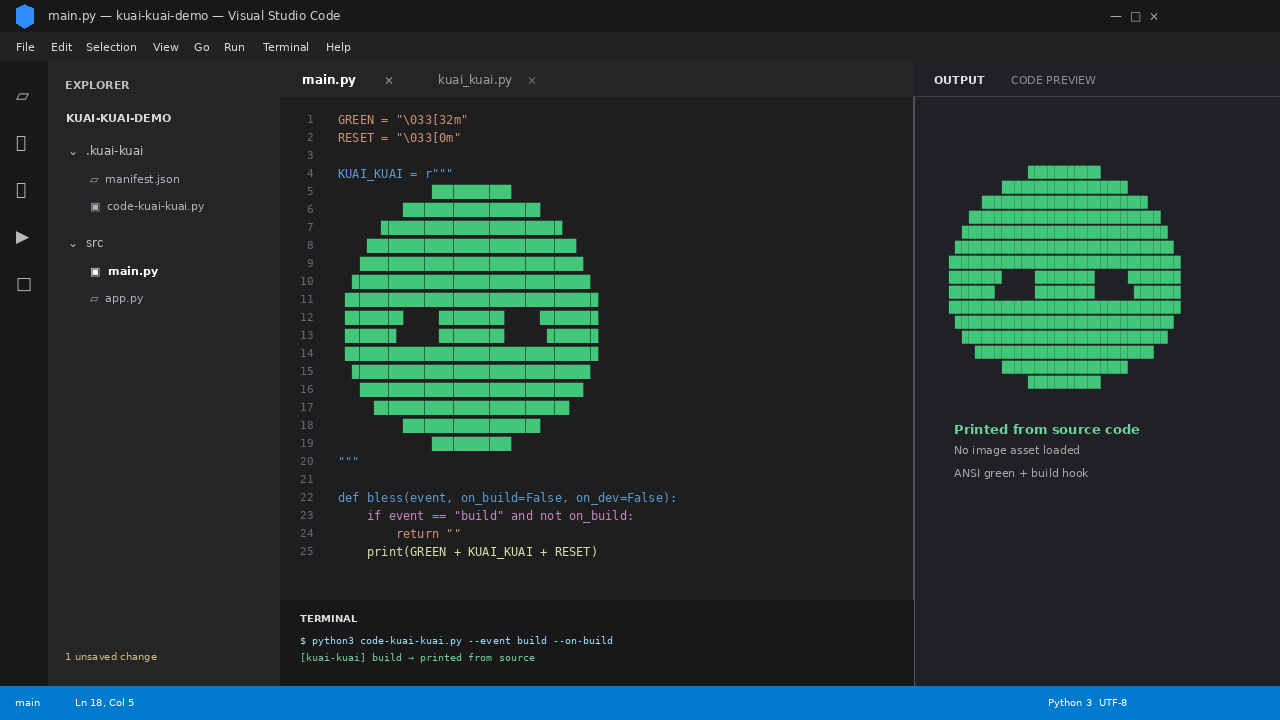
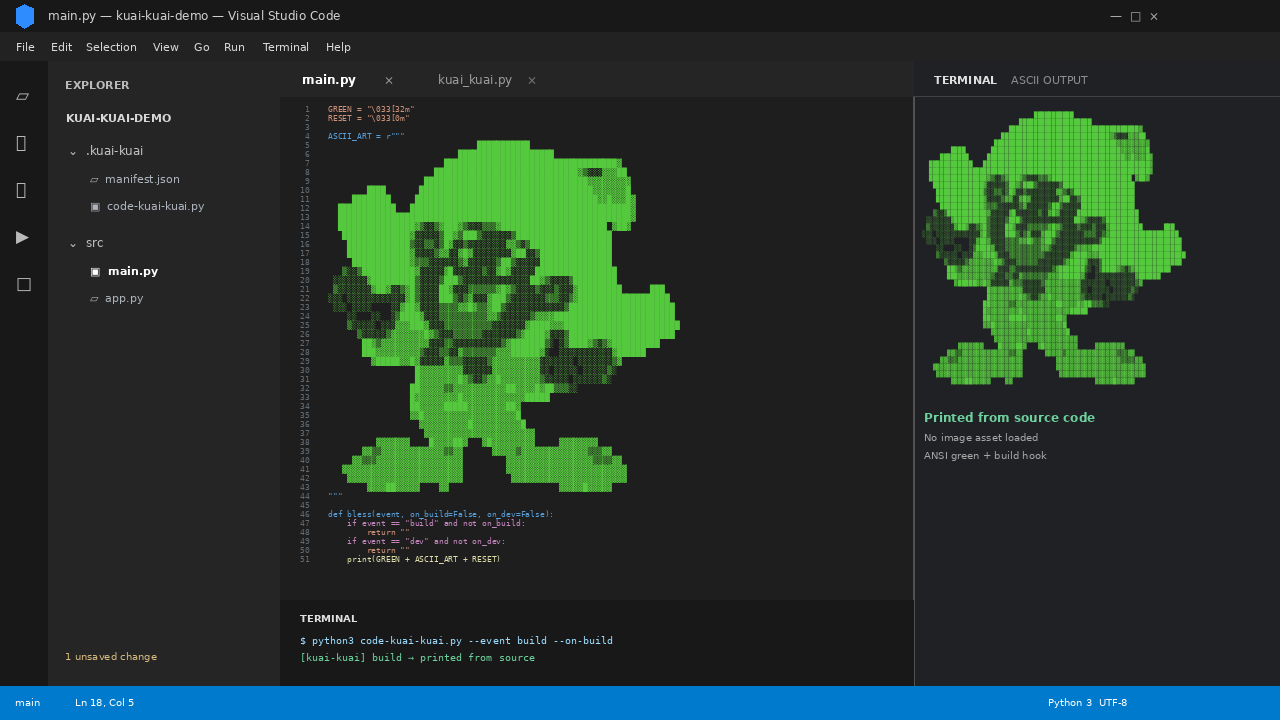
依照範例改用完整明暗 ASCII 乖乖

diff --git a/scripts/build-demo-gifs.py b/scripts/build-demo-gifs.py
@@ -215,31 +215,55 @@ def illustrator_frame(progress: float, final: bool = False) -> Image.Image:
     return im
 
 
-# The code demo follows the event-triggered ASCII-art approach in the
-# referenced Vite plug-in. It never reads PACKAGE.
+# The code demo follows the event-triggered, source-embedded ASCII-art approach
+# in the referenced Vite plug-in. It never reads PACKAGE.
 ASCII_ART = (
-    "             ███████████",
-    "         ███████████████████",
-    "      █████████████████████████",
-    "    █████████████████████████████",
-    "   ███████████████████████████████",
-    "  █████████████████████████████████",
-    " ███████████████████████████████████",
-    " ████████     █████████     ████████",
-    " ███████      █████████      ███████",
-    " ███████████████████████████████████",
-    "  █████████████████████████████████",
-    "   ███████████████████████████████",
-    "     ███████████████████████████",
-    "         ███████████████████",
-    "             ███████████",
+    "                               ███████████",
+    "                           ████████████████████",
+    "                        ████████████████████████████████████▓",
+    "                      ██████████████████████████████▓▒░░░▓▓▓██",
+    "                    ██████████████████████████████████▓▓▓▓▓▓▓▓▓",
+    "        ████       ████████████████████████████████████▓▓▓▓▓▓▓█",
+    "     ████████     ██████████████████████████████████████▓▓█▓▓▓█▓",
+    "  ████████████   ██████████████████████████████████████████████▓",
+    "  █████████████████████████████████████████████████████████████▓",
+    "  ████████████████▓▒░░▒▓███▓▒░░░▒▒▒▓██████████████████████ ▓██▓",
+    "   ██████████████▓░░░░░▒██▓▒███▒░░░░░░▒████████████████████",
+    "    █████████████▒░░▒▒░▒█▓░░▒░░░░░░░░▓▓▒░▒█████████████████",
+    "    █████████████▓░░░░▒▓▓░░▓█▓░░░░░░░░▓██░░▒███████████████",
+    "     ████████████▓▒▒▒░░░░░░▒▓░░░░░░▒██▒░░░░░███████████████",
+    "   ▒░░▒███████████▓░░░░░▓█░░░░░░▒░░▓█▓░░░░░█████████████████",
+    " ░░░░░░░▓█████████▒░░░░▒███▒░░░░░░░░░░░░░░██▓▒░░░░▒█████████",
+    " ▒░░░░░░░▓██▓░░▒▓█▒░░░░██▓░░░▒▒▒▒▒▒▓█▓▒░░░░▒░░░▒░░░▓█████████      ███",
+    "░░░ ░░░░░░░░░░░░▓█▒░░░░███▒░▒▓░░░▓███▒░░░░░░░▒▒▒░░▒▓███████████████████",
+    " ░░░ ░░░░    ░░▓██▓░░░░▒▒▒▒▓▓█▓▒▒▓██▒░░░░░░░░░░░░▒██████████████████████",
+    "    ░░   ░░  ░▒████▓░░░▒▒▒▒▒▒▒▒▒▒▓▓▒░░░░░░▒▓▓▓▓█████████████████████████",
+    "    ▒░░░░░ ░░░▓▓▓███▓░░░▒▒▒▒▒▒▒▒▒▒░░░░░░░▓████▓▓▓████████████████████████",
+    "      ▒░░░░░▒▓▓▓▓▓▓▓█▓▒░░░▒▒▒▒▒▒░░░░░░░▒▓████▓░░░▒██████████████████████",
+    "       ██▓▒▓▓▓▓▓▓▓▓▓▓░░░▒▒░░░░░░░░░░▒▓███████▒░ ░▒████▓▒░▒▓██████████",
+    "       ███▓▓▓▓▓▓▓▓▓▒░░░▒▒░░▓▒▒▒▒▒▒▒▓▓▓██████▓░  ░░░░░░░░░░░▓██████",
+    "         ▓█████▓▓█▓░░░░░▓▒▒▒░░░░░▒▓▓▓▓▓▓▓▓▓▓░░░░░░░ ░░░░░░░▒▓",
+    "                  █▓▓▓▓▓▓▓▓▓░░░░░░▓▓▓▓▓▓▓▓▓▓░░ ░░░░░ ░░░░░▒░",
+    "                  █▓▓▓▓▓▓▓▓█▓▒░░▒▓▓█▓▓▓▓▓▓▓▓▒░░░░░ ░░░░░░▒░",
+    "                 ██▓▓▓▓▓▒▒▓▓▓▓▓▓▓▓▓▓▓██▓▓▓▓█▓██▒▒▒░░",
+    "                 █▓▓▓▓▓▓▓▓▓█▓▓▓▓▓▓▓▓▓▓▓▓▓█████",
+    "                 ██▓▓▓▓▓█████▓▓▓▓▓▓▓▓██▓",
+    "                 ▓▓█▓▓▓▓▓▓▓▓▓▓▓▓▓▓▓▓▓▓▓█",
+    "                   ▓▓▓▓▓▓▓▓▓▓█▓▓▓▓▓▓▓▓▓▓█",
+    "                    ▓▓▓▓▓▓▓▓▓▓▓▓▓▓▓▓▓▓▓▓▓▓▓",
+    "          ▓▓▓▓▓▓▓    █▓▓▓▓██▓   ▓█▓▓▓▓▓▓▓▓▓     ▓▓▓▓▓▓▓▓",
+    "       ▓▓▒▒▓▓▓▓▓▓▓▓▓▓▓▓▓▒▒▓▓      ▓▓▓▓▓▒▓▓▓▓▓▓▓▓▓▓▓▓▓▓▒▒▒▓▓",
+    "     ▓▓▒▒▒▓▓▓▓▓▓▓▓▓▓▓▓▓▓▓▓▓▓         ▓▓▓▓▓▓▓▓▓▓▓▓▓▓▓▓▓▓▒▒▒▒▓▓",
+    "   ▓▓▓▓▓▓▓▓▓▓▓▓▓▓▓▓▓▓▓▓▓▓▓▓▓         ▓▓▓▓▓▓▓▓▓▓▓▓▓▓▓▓▓▓▓▓▓▓▓▓▓",
+    "    ▓▓▓▓▓▓▓▓▓▓▓▓▓▓▓▓▓▓▓▓▓▓▓▓          ▓▓▓▓▓▓▓▓▓▓▓▓▓▓▓▓▓▓▓▓▓▓▓▓",
+    "        ▓▓▓▓██▓▓▓▓▓    ▓▓                       ▓▓▓▓▓█▓▓▓▓▓",
 )
 
 
 def draw_ascii_preview(draw: ImageDraw.ImageDraw, x: int, y: int, visible: int | None = None) -> None:
     lines = ASCII_ART if visible is None else ASCII_ART[:visible]
     for row, line in enumerate(lines):
-        text(draw, (x, y + row * 15), line, 11, "#42c77a", bold=True, mono=True)
+        text(draw, (x, y + row * 7), line, 6, "#55c93d", bold=True, mono=True)
 
 
 def code_shell() -> tuple[Image.Image, ImageDraw.ImageDraw]:
@@ -278,8 +302,8 @@ def code_shell() -> tuple[Image.Image, ImageDraw.ImageDraw]:
     text(draw, (384, 72), "×", 12, "#999999")
     text(draw, (438, 72), "kuai_kuai.py", 12, "#9d9d9d")
     text(draw, (527, 72), "×", 12, "#777777")
-    text(draw, (934, 73), "OUTPUT", 11, "#e0e0e0", bold=True)
-    text(draw, (1011, 73), "CODE PREVIEW", 11, "#8d8d8d")
+    text(draw, (934, 73), "TERMINAL", 11, "#e0e0e0", bold=True)
+    text(draw, (1011, 73), "ASCII OUTPUT", 11, "#8d8d8d")
     draw.line((913, 96, W, 96), fill="#424242")
     draw.line((913, 97, 913, 686), fill="#515151", width=2)
     return im, draw
@@ -289,63 +313,51 @@ CODE_LINES = [
     ('GREEN = "\\033[32m"', "#ce9178"),
     ('RESET = "\\033[0m"', "#ce9178"),
     ("", "#d4d4d4"),
-    ('KUAI_KUAI = r"""', "#569cd6"),
-    ("             ███████████", "#42c77a"),
-    ("         ███████████████████", "#42c77a"),
-    ("      █████████████████████████", "#42c77a"),
-    ("    █████████████████████████████", "#42c77a"),
-    ("   ███████████████████████████████", "#42c77a"),
-    ("  █████████████████████████████████", "#42c77a"),
-    (" ███████████████████████████████████", "#42c77a"),
-    (" ████████     █████████     ████████", "#42c77a"),
-    (" ███████      █████████      ███████", "#42c77a"),
-    (" ███████████████████████████████████", "#42c77a"),
-    ("  █████████████████████████████████", "#42c77a"),
-    ("   ███████████████████████████████", "#42c77a"),
-    ("     ███████████████████████████", "#42c77a"),
-    ("         ███████████████████", "#42c77a"),
-    ("             ███████████", "#42c77a"),
+    ('ASCII_ART = r"""', "#569cd6"),
+] + [(line, "#55c93d") for line in ASCII_ART] + [
     ('"""', "#569cd6"),
     ("", "#d4d4d4"),
     ("def bless(event, on_build=False, on_dev=False):", "#569cd6"),
     ('    if event == "build" and not on_build:', "#c586c0"),
     ('        return ""', "#ce9178"),
-    ("    print(GREEN + KUAI_KUAI + RESET)", "#dcdcaa"),
+    ('    if event == "dev" and not on_dev:', "#c586c0"),
+    ('        return ""', "#ce9178"),
+    ("    print(GREEN + ASCII_ART + RESET)", "#dcdcaa"),
 ]
 
 
 def code_frame(progress: float, final: bool = False) -> Image.Image:
     im, draw = code_shell()
-    editor_x, editor_y = 300, 112
-    line_height = 18
+    editor_x, editor_y = 300, 104
+    line_height = 9
     visible = len(CODE_LINES) if final else max(3, min(len(CODE_LINES), int(3 + progress * (len(CODE_LINES) - 3))))
     for index, (line, colour) in enumerate(CODE_LINES[:visible]):
         y = editor_y + index * line_height
-        text(draw, (editor_x, y), f"{index + 1:>2}", 11, "#606a73", mono=True)
-        text(draw, (editor_x + 38, y), line, 12, colour, mono=True)
+        text(draw, (editor_x, y), f"{index + 1:>2}", 8, "#606a73", mono=True)
+        text(draw, (editor_x + 28, y), line, 8, colour, mono=True)
 
     # A blinking caret communicates typing; it replaces the old fake drag arrow.
     if not final:
         last_line = CODE_LINES[visible - 1][0]
-        caret_x = editor_x + 38 + len(last_line) * 7
+        caret_x = editor_x + 28 + len(last_line) * 4.8
         draw.rectangle((caret_x, editor_y + (visible - 1) * line_height, caret_x + 2,
-                        editor_y + (visible - 1) * line_height + 15), fill="#aeafad")
+                        editor_y + (visible - 1) * line_height + 10), fill="#aeafad")
 
     # The preview appears row by row only after the lifecycle hook exists.
-    preview_x, preview_y = 942, 165
+    preview_x, preview_y = 922, 111
     if final:
         draw_ascii_preview(draw, preview_x, preview_y)
-        text(draw, (954, 421), "Printed from source code", 13, "#6ed19d", bold=True)
-        text(draw, (954, 443), "No image asset loaded", 11, "#a6a6a6")
-        text(draw, (954, 466), "ANSI green + build hook", 11, "#a6a6a6")
+        text(draw, (924, 410), "Printed from source code", 12, "#6ed19d", bold=True)
+        text(draw, (924, 431), "No image asset loaded", 10, "#a6a6a6")
+        text(draw, (924, 449), "ANSI green + build hook", 10, "#a6a6a6")
     elif visible > 4:
         rows = min(len(ASCII_ART), visible - 4)
         draw_ascii_preview(draw, preview_x, preview_y, visible=rows)
-        text(draw, (954, 421), "Executing build hook…", 12, "#dcdcaa")
+        text(draw, (924, 410), "Executing build hook…", 11, "#dcdcaa")
     else:
-        text(draw, (954, 207), "Waiting for event…", 13, "#777777")
-        text(draw, (954, 235), "The talisman is stored", 11, "#777777")
-        text(draw, (954, 253), "inside the source code.", 11, "#777777")
+        text(draw, (924, 207), "Waiting for event…", 12, "#777777")
+        text(draw, (924, 235), "The talisman is stored", 10, "#777777")
+        text(draw, (924, 252), "inside the source code.", 10, "#777777")
 
     # Integrated terminal and status bar.
     draw.rectangle((280, 600, 913, 686), fill="#181818")

diff --git a/skills/kuai-kuai-bye-bye/scripts/code-kuai-kuai.py b/skills/kuai-kuai-bye-bye/scripts/code-kuai-kuai.py
@@ -14,24 +14,50 @@ import argparse
 GREEN = "\033[32m"
 RESET = "\033[0m"
 
-# Inspired by the event-triggered ASCII-art approach in:
-# https://github.com/unickhow/vite-plugin-kuaikuai
+# The drawing is kept in source, following the event-triggered approach in
+# https://github.com/unickhow/vite-plugin-kuaikuai.  The shaded characters are
+# intentional: they preserve the package, face, arms and feet instead of
+# reducing Kuai Kuai to a generic green blob.
 ASCII_ART = r"""
-             ███████████
-         ███████████████████
-      █████████████████████████
-    █████████████████████████████
-   ███████████████████████████████
-  █████████████████████████████████
- ███████████████████████████████████
- ████████     █████████     ████████
- ███████      █████████      ███████
- ███████████████████████████████████
-  █████████████████████████████████
-   ███████████████████████████████
-     ███████████████████████████
-         ███████████████████
-             ███████████
+                               ███████████
+                           ████████████████████
+                        ████████████████████████████████████▓
+                      ██████████████████████████████▓▒░░░▓▓▓██
+                    ██████████████████████████████████▓▓▓▓▓▓▓▓▓
+        ████       ████████████████████████████████████▓▓▓▓▓▓▓█
+     ████████     ██████████████████████████████████████▓▓█▓▓▓█▓
+  ████████████   ██████████████████████████████████████████████▓
+  █████████████████████████████████████████████████████████████▓
+  ████████████████▓▒░░▒▓███▓▒░░░▒▒▒▓██████████████████████ ▓██▓
+   ██████████████▓░░░░░▒██▓▒███▒░░░░░░▒████████████████████
+    █████████████▒░░▒▒░▒█▓░░▒░░░░░░░░▓▓▒░▒█████████████████
+    █████████████▓░░░░▒▓▓░░▓█▓░░░░░░░░▓██░░▒███████████████
+     ████████████▓▒▒▒░░░░░░▒▓░░░░░░▒██▒░░░░░███████████████
+   ▒░░▒███████████▓░░░░░▓█░░░░░░▒░░▓█▓░░░░░█████████████████
+ ░░░░░░░▓█████████▒░░░░▒███▒░░░░░░░░░░░░░░██▓▒░░░░▒█████████
+ ▒░░░░░░░▓██▓░░▒▓█▒░░░░██▓░░░▒▒▒▒▒▒▓█▓▒░░░░▒░░░▒░░░▓█████████      ███
+░░░ ░░░░░░░░░░░░▓█▒░░░░███▒░▒▓░░░▓███▒░░░░░░░▒▒▒░░▒▓███████████████████
+ ░░░ ░░░░    ░░▓██▓░░░░▒▒▒▒▓▓█▓▒▒▓██▒░░░░░░░░░░░░▒██████████████████████
+    ░░   ░░  ░▒████▓░░░▒▒▒▒▒▒▒▒▒▒▓▓▒░░░░░░▒▓▓▓▓█████████████████████████
+    ▒░░░░░ ░░░▓▓▓███▓░░░▒▒▒▒▒▒▒▒▒▒░░░░░░░▓████▓▓▓████████████████████████
+      ▒░░░░░▒▓▓▓▓▓▓▓█▓▒░░░▒▒▒▒▒▒░░░░░░░▒▓████▓░░░▒██████████████████████
+       ██▓▒▓▓▓▓▓▓▓▓▓▓░░░▒▒░░░░░░░░░░▒▓███████▒░ ░▒████▓▒░▒▓██████████
+       ███▓▓▓▓▓▓▓▓▓▒░░░▒▒░░▓▒▒▒▒▒▒▒▓▓▓██████▓░  ░░░░░░░░░░░▓██████
+         ▓█████▓▓█▓░░░░░▓▒▒▒░░░░░▒▓▓▓▓▓▓▓▓▓▓░░░░░░░ ░░░░░░░▒▓
+                  █▓▓▓▓▓▓▓▓▓░░░░░░▓▓▓▓▓▓▓▓▓▓░░ ░░░░░ ░░░░░▒░
+                  █▓▓▓▓▓▓▓▓█▓▒░░▒▓▓█▓▓▓▓▓▓▓▓▒░░░░░ ░░░░░░▒░
+                 ██▓▓▓▓▓▒▒▓▓▓▓▓▓▓▓▓▓▓██▓▓▓▓█▓██▒▒▒░░
+                 █▓▓▓▓▓▓▓▓▓█▓▓▓▓▓▓▓▓▓▓▓▓▓█████
+                 ██▓▓▓▓▓█████▓▓▓▓▓▓▓▓██▓
+                 ▓▓█▓▓▓▓▓▓▓▓▓▓▓▓▓▓▓▓▓▓▓█
+                   ▓▓▓▓▓▓▓▓▓▓█▓▓▓▓▓▓▓▓▓▓█
+                    ▓▓▓▓▓▓▓▓▓▓▓▓▓▓▓▓▓▓▓▓▓▓▓
+          ▓▓▓▓▓▓▓    █▓▓▓▓██▓   ▓█▓▓▓▓▓▓▓▓▓     ▓▓▓▓▓▓▓▓
+       ▓▓▒▒▓▓▓▓▓▓▓▓▓▓▓▓▓▒▒▓▓      ▓▓▓▓▓▒▓▓▓▓▓▓▓▓▓▓▓▓▓▓▒▒▒▓▓
+     ▓▓▒▒▒▓▓▓▓▓▓▓▓▓▓▓▓▓▓▓▓▓▓         ▓▓▓▓▓▓▓▓▓▓▓▓▓▓▓▓▓▓▒▒▒▒▓▓
+   ▓▓▓▓▓▓▓▓▓▓▓▓▓▓▓▓▓▓▓▓▓▓▓▓▓         ▓▓▓▓▓▓▓▓▓▓▓▓▓▓▓▓▓▓▓▓▓▓▓▓▓
+    ▓▓▓▓▓▓▓▓▓▓▓▓▓▓▓▓▓▓▓▓▓▓▓▓          ▓▓▓▓▓▓▓▓▓▓▓▓▓▓▓▓▓▓▓▓▓▓▓▓
+        ▓▓▓▓██▓▓▓▓▓    ▓▓                       ▓▓▓▓▓█▓▓▓▓▓
 """.strip("\n")
 
 

diff --git a/tests/test_ritual.py b/tests/test_ritual.py
@@ -150,6 +150,9 @@ class RitualTest(unittest.TestCase):
         output = code_kuai_kuai.bless("build", on_build=True, color=False)
         self.assertIn("[kuai-kuai] build", output)
         self.assertIn("████", output)
+        self.assertIn("▓▒░", output)
+        self.assertGreaterEqual(len(code_kuai_kuai.ASCII_ART.splitlines()), 35)
+        self.assertGreater(max(map(len, code_kuai_kuai.ASCII_ART.splitlines())), 70)
         self.assertNotIn("\\033", output)
         self.assertIn("ASCII_ART", code_kuai_kuai.__dict__)
 

diff --git a/README.md b/README.md
@@ -104,21 +104,22 @@ python3 skills/kuai-kuai-bye-bye/scripts/kuai.py uninstall --project /path/to/pr
 
 ## 工程師：直接用程式碼輸出乖乖
 
-首頁第二張 GIF 參考 [vite-plugin-kuaikuai](https://github.com/unickhow/vite-plugin-kuaikuai) 的做法：不是把 PNG 塞進程式碼，也不是先產生一個圖片檔，而是把乖乖圖形寫成多行字元常數，在 `build` 或 `dev` 事件發生時用 ANSI 綠色輸出。這樣最簡單，沒有圖片資產，也不需要繪圖套件。
+首頁第二張 GIF 直接參考 [vite-plugin-kuaikuai](https://github.com/unickhow/vite-plugin-kuaikuai) 的做法：不是把 PNG 塞進程式碼，也不是先產生一個圖片檔，而是把包含包裝、五官、手腳與明暗網點的乖乖圖形寫成多行 `█▓▒░` 字元常數，在 `build` 或 `dev` 事件發生時用 ANSI 綠色輸出。這樣最簡單，沒有圖片資產，也不需要繪圖套件。
 
 ```python
-KUAI_KUAI = r"""
-             ███████████
-         ███████████████████
-      █████████████████████████
-    █████████████████████████████
-             ...
-"""
+ASCII_ART = r"""
+                               ███████████
+                           ████████████████████
+                        ████████████████████████████████████▓
+                      ██████████████████████████████▓▒░░░▓▓▓██
+                         ...（完整字元圖見 scripts/code-kuai-kuai.py）
+        ▓▓▓▓██▓▓▓▓▓    ▓▓                       ▓▓▓▓▓█▓▓▓▓▓
+""".strip()
 
 def bless(event, on_build=False, on_dev=False):
     if event == "build" and not on_build:
-        return
-    print("\\033[32m" + KUAI_KUAI + "\\033[0m")
+        return ""
+    print("\033[32m" + ASCII_ART + "\033[0m")
 ```
 
 `code-kuai-kuai.py` 預設只在明確指定事件時輸出。`--event build --on-build` 對應建置完成，`--event dev --on-dev` 對應開發伺服器啟動，兩個 hook 預設關閉，不會偷偷污染一般終端輸出。
